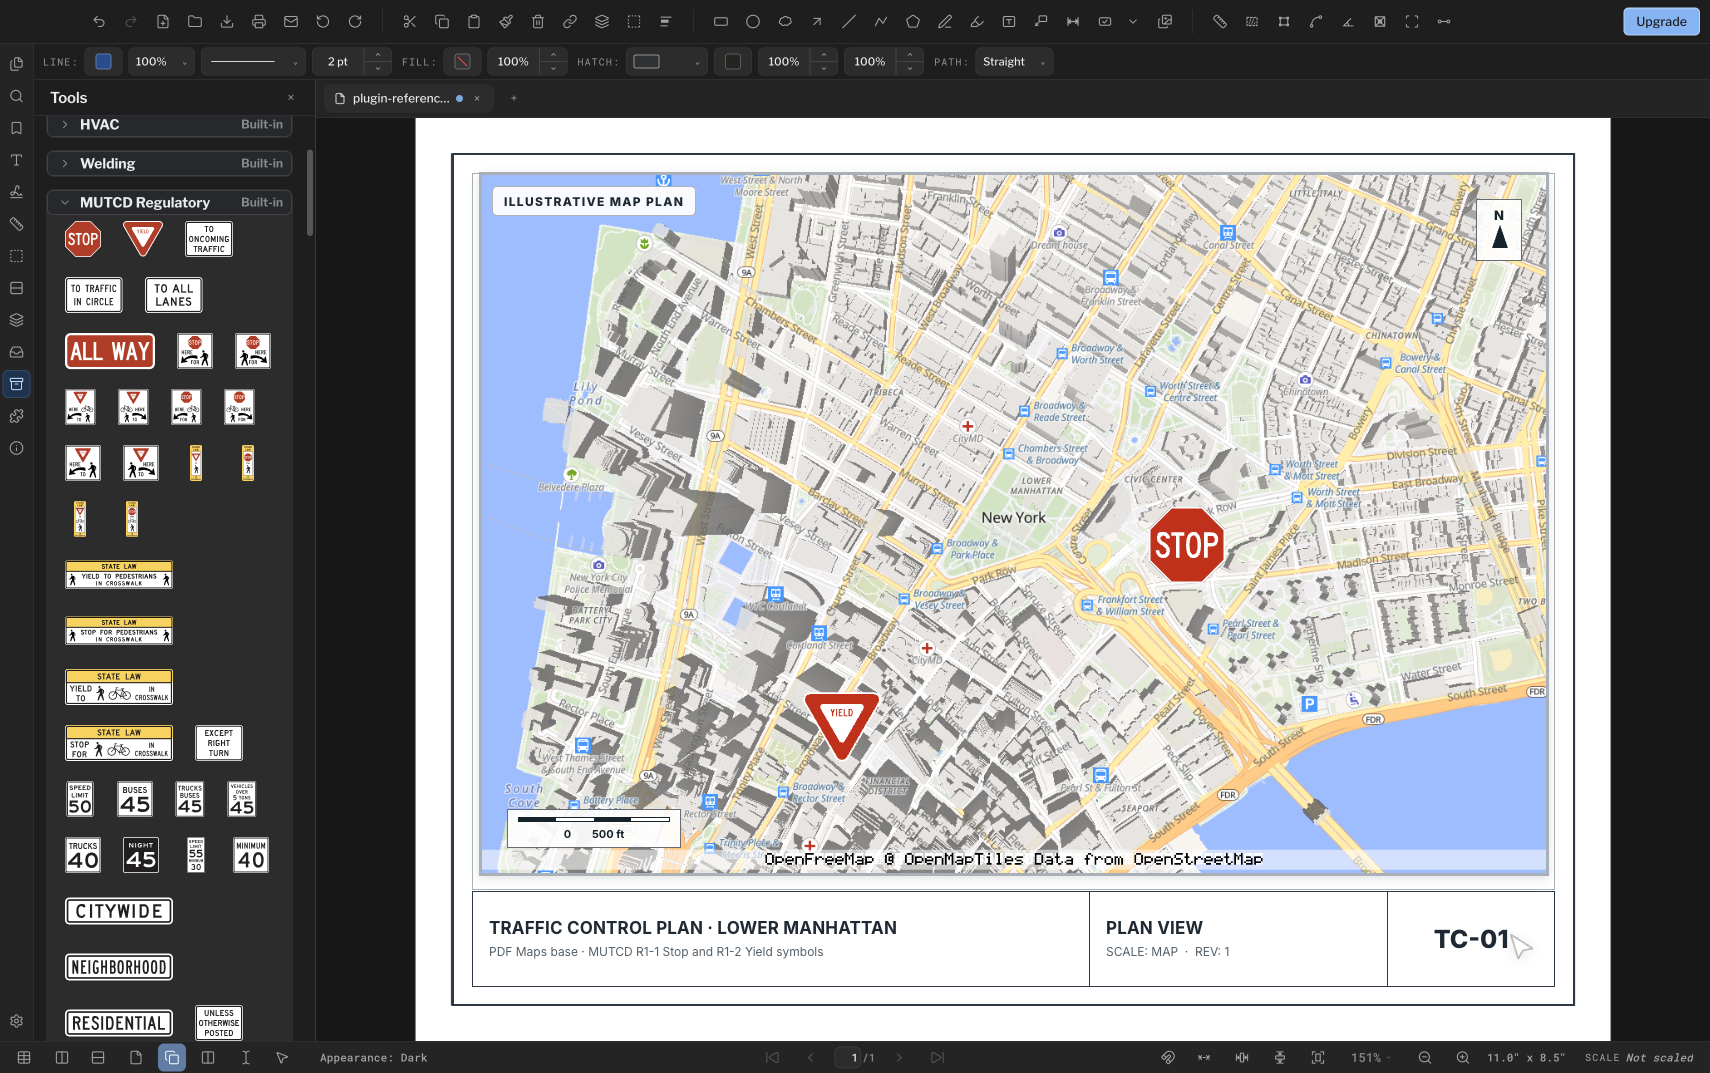
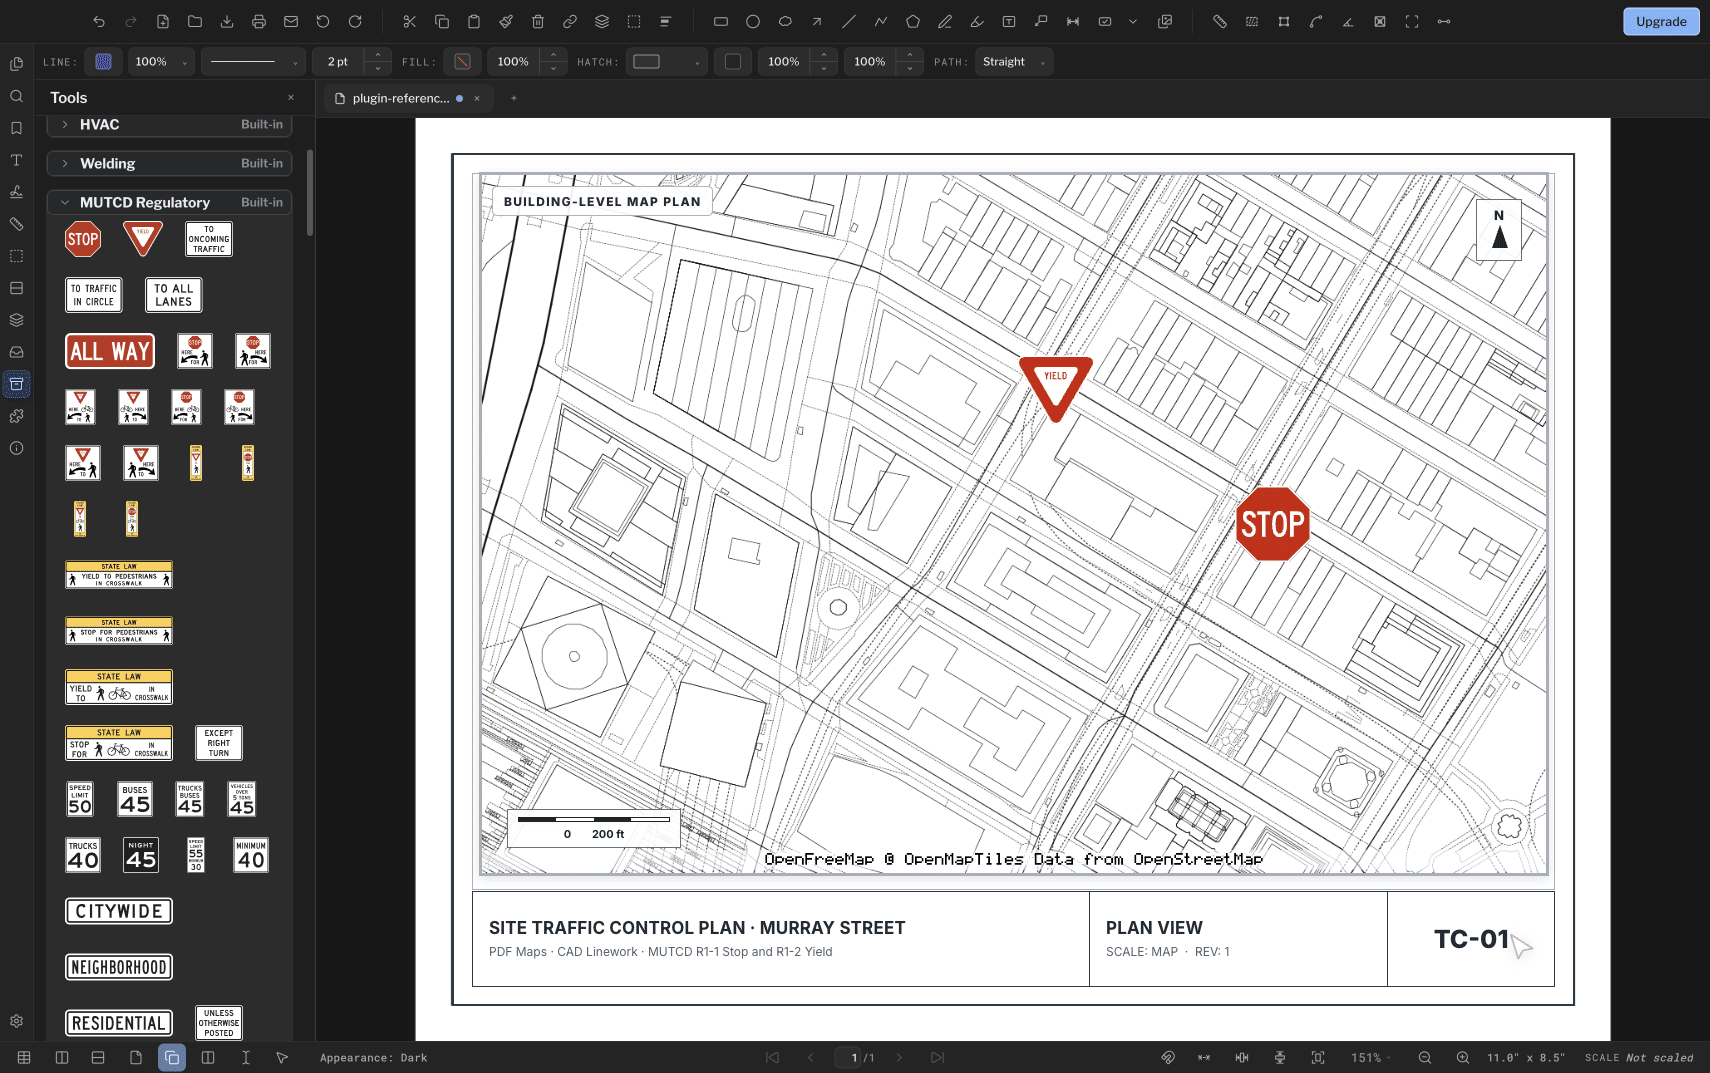
feat: show building map linework transition

diff --git a/videos/polypdf-map-workflow/index.html b/videos/polypdf-map-workflow/index.html
@@ -104,10 +104,30 @@
       }
 
       .map-image {
+        position: absolute;
+        inset: 0;
         display: block;
         width: 100%;
         height: 100%;
         object-fit: cover;
+      }
+
+      .map-image-linework {
+        clip-path: inset(0 100% 0 0);
+        will-change: clip-path;
+      }
+
+      .style-wipe-edge {
+        position: absolute;
+        top: 0;
+        bottom: 0;
+        left: -2px;
+        z-index: 3;
+        width: 3px;
+        opacity: 0;
+        background: #6f9ff5;
+        box-shadow: 0 0 0 1px rgba(255, 255, 255, 0.8), 0 0 16px rgba(111, 159, 245, 0.72);
+        will-change: transform, opacity;
       }
 
       .north-arrow {
@@ -246,15 +266,15 @@
       }
 
       #stop-sign {
-        left: 670px;
-        top: 335px;
+        left: 756px;
+        top: 314px;
         width: 76px;
         height: 76px;
       }
 
       #yield-sign {
-        left: 324px;
-        top: 520px;
+        left: 538px;
+        top: 183px;
         width: 78px;
         height: 70px;
       }
@@ -327,19 +347,21 @@
     </style>
   </head>
   <body>
-    <div data-hf-id="hf-iob9" id="map-workflow-stage" data-composition-id="polypdf-map-workflow" data-start="0" data-duration="8.6" data-fps="30" data-width="1710" data-height="1073" aria-label="PolyPDF inserts and resizes a full map plan, then adds MUTCD traffic signs">
-      <div data-hf-id="hf-qlwb" id="map-workflow-clip" class="clip" data-start="0" data-duration="8.6" data-track-index="0">
+    <div data-hf-id="hf-iob9" id="map-workflow-stage" data-composition-id="polypdf-map-workflow" data-start="0" data-duration="9.2" data-fps="30" data-width="1710" data-height="1073" aria-label="PolyPDF inserts a building-level map, converts it to CAD linework, then adds MUTCD traffic signs">
+      <div data-hf-id="hf-qlwb" id="map-workflow-clip" class="clip" data-start="0" data-duration="9.2" data-track-index="0">
         <img data-hf-id="hf-xzny" class="base-frame" src="assets/polypdf-pdf-maps-ui.png" width="1710" height="1073" alt="" aria-hidden="true" draggable="false">
 
         <div data-hf-id="hf-l250" class="motion-layer" data-layout-allow-overlap="">
           <section data-hf-id="hf-uhvq" class="plan-sheet" aria-label="Traffic control map plan document">
-            <div data-hf-id="hf-hmlo" class="sheet-kicker">Illustrative map plan</div>
+            <div data-hf-id="hf-hmlo" class="sheet-kicker">Building-level map plan</div>
 
             <div data-hf-id="hf-9loi" id="map-frame" class="map-frame">
               <div data-hf-id="hf-0xsl" class="map-viewport">
-                <img data-hf-id="hf-ihyl" class="map-image" src="assets/new-york-map-full.png" width="1280" height="840" alt="">
+                <img data-hf-id="hf-ihyl" class="map-image" src="assets/building-map-liberty.png" width="1280" height="840" alt="Building-level Liberty map around Murray Street and Church Street">
+                <img data-hf-id="hf-linework" id="linework-map" class="map-image map-image-linework" src="assets/building-map-linework.png" width="1280" height="840" alt="The same building-level map rendered as CAD linework">
+                <span data-hf-id="hf-wipe-edge" id="style-wipe-edge" class="style-wipe-edge" aria-hidden="true"></span>
                 <div data-hf-id="hf-e7xd" class="north-arrow">N</div>
-                <div data-hf-id="hf-asnu" class="map-scale">0&#160;&#160;&#160;&#160;&#160;&#160;&#160;&#160;500 ft</div>
+                <div data-hf-id="hf-asnu" class="map-scale">0&#160;&#160;&#160;&#160;&#160;&#160;&#160;&#160;200 ft</div>
               </div>
               <i data-hf-id="hf-yen0" class="resize-handle handle-tl"></i>
               <i data-hf-id="hf-5fm2" class="resize-handle handle-tr"></i>
@@ -362,8 +384,8 @@
 
             <footer data-hf-id="hf-2fl0" class="title-block">
               <div data-hf-id="hf-yeow">
-                <strong data-hf-id="hf-xhcd">TRAFFIC CONTROL PLAN · LOWER MANHATTAN</strong>
-                <span data-hf-id="hf-hv3x">PDF Maps base · MUTCD R1-1 Stop and R1-2 Yield symbols</span>
+                <strong data-hf-id="hf-xhcd">SITE TRAFFIC CONTROL PLAN · MURRAY STREET</strong>
+                <span data-hf-id="hf-hv3x">PDF Maps · CAD Linework · MUTCD R1-1 Stop and R1-2 Yield</span>
               </div>
               <div data-hf-id="hf-y7yw">
                 <strong data-hf-id="hf-cu12">PLAN VIEW</strong>
@@ -392,9 +414,10 @@
         var tl = gsap.timeline({ paused: true });
         gsap.set("#workflow-cursor", { x: 212, y: 904, opacity: 0, transformOrigin: "8px 8px" });
         gsap.set("#map-frame", { x: 176, y: 122, scale: 0.58, opacity: 0, transformOrigin: "0 0" });
-        gsap.set("#stop-sign", { x: -1082, y: -284, scale: 0.54, opacity: 0 });
-        gsap.set("#yield-sign", { x: -673, y: -468, scale: 0.5, opacity: 0 });
+        gsap.set("#stop-sign", { x: -1168, y: -263, scale: 0.54, opacity: 0 });
+        gsap.set("#yield-sign", { x: -887, y: -116, scale: 0.5, opacity: 0 });
         gsap.set(".sign-selection", { opacity: 0 });
+        gsap.set("#style-wipe-edge", { x: 0, opacity: 0 });
 
         tl.to("#workflow-cursor", { opacity: 1, duration: 0.12, ease: "none" }, 0.25);
         tl.to("#workflow-cursor", { x: 266, y: 1015, duration: 0.5, ease: "power2.inOut" }, 0.3);
@@ -403,40 +426,48 @@
         tl.fromTo(".cursor-ripple", { opacity: 0.85, scale: 0.25 }, { opacity: 0, scale: 2.1, duration: 0.34, ease: "power2.out", immediateRender: false }, 0.82);
 
         tl.fromTo("#map-frame", { x: 176, y: 122, scale: 0.54, opacity: 0 }, { x: 176, y: 122, scale: 0.58, opacity: 1, duration: 0.32, ease: "back.out(1.7)", immediateRender: false }, 1.08);
-        tl.to("#workflow-cursor", { x: 1272, y: 700, duration: 0.62, ease: "power2.inOut" }, 1.16);
-        tl.to("#workflow-cursor", { scale: 0.88, duration: 0.08, ease: "none" }, 1.7);
-        tl.to("#workflow-cursor", { x: 1547, y: 873, scale: 0.88, duration: 1.48, ease: "power2.inOut" }, 1.78);
-        tl.to("#map-frame", { x: 0, y: 0, scale: 1, duration: 1.48, ease: "power2.inOut" }, 1.78);
-        tl.to("#workflow-cursor", { scale: 1, duration: 0.16, ease: "back.out(2)" }, 3.26);
-        tl.fromTo(".cursor-ripple", { opacity: 0.8, scale: 0.25 }, { opacity: 0, scale: 2.1, duration: 0.34, ease: "power2.out", immediateRender: false }, 3.23);
-        tl.to(".resize-handle", { opacity: 0, duration: 0.24, ease: "power2.out" }, 3.38);
-        tl.to(".map-viewport", { borderColor: "rgba(44,57,68,0.34)", boxShadow: "0 3px 10px rgba(21,28,34,0.12)", duration: 0.24, ease: "power2.out" }, 3.38);
+        tl.to("#workflow-cursor", { x: 1272, y: 700, duration: 0.56, ease: "power2.inOut" }, 1.16);
+        tl.to("#workflow-cursor", { scale: 0.88, duration: 0.08, ease: "none" }, 1.66);
+        tl.to("#workflow-cursor", { x: 1547, y: 873, scale: 0.88, duration: 1.22, ease: "power2.inOut" }, 1.74);
+        tl.to("#map-frame", { x: 0, y: 0, scale: 1, duration: 1.22, ease: "power2.inOut" }, 1.74);
+        tl.to("#workflow-cursor", { scale: 1, duration: 0.14, ease: "back.out(2)" }, 2.96);
+        tl.fromTo(".cursor-ripple", { opacity: 0.8, scale: 0.25 }, { opacity: 0, scale: 2.1, duration: 0.32, ease: "power2.out", immediateRender: false }, 2.93);
+        tl.to(".resize-handle", { opacity: 0, duration: 0.2, ease: "power2.out" }, 3.08);
+        tl.to(".map-viewport", { borderColor: "rgba(44,57,68,0.34)", boxShadow: "0 3px 10px rgba(21,28,34,0.12)", duration: 0.2, ease: "power2.out" }, 3.08);
 
-        tl.to("#mutcd-panel", { opacity: 1, duration: 0.28, ease: "power2.inOut" }, 3.48);
-        tl.to("#workflow-cursor", { x: 82, y: 239, duration: 0.58, ease: "power2.inOut" }, 3.54);
-        tl.to("#workflow-cursor", { scale: 0.88, duration: 0.08, ease: "none" }, 4.12);
-        tl.set("#stop-sign", { opacity: 0.82 }, 4.16);
-        tl.to("#workflow-cursor", { x: 1147, y: 518, scale: 0.88, duration: 0.88, ease: "power2.inOut" }, 4.2);
-        tl.to("#stop-sign", { x: 0, y: 0, scale: 1, opacity: 1, duration: 0.88, ease: "power2.inOut" }, 4.2);
-        tl.to("#workflow-cursor", { scale: 1, duration: 0.14, ease: "back.out(2)" }, 5.08);
-        tl.fromTo("#stop-sign .sign-selection", { opacity: 0 }, { opacity: 1, duration: 0.12, ease: "none", immediateRender: false }, 5.08);
-        tl.fromTo(".cursor-ripple", { opacity: 0.8, scale: 0.25 }, { opacity: 0, scale: 2.1, duration: 0.34, ease: "power2.out", immediateRender: false }, 5.04);
+        tl.to("#workflow-cursor", { x: 164, y: 835, duration: 0.52, ease: "power2.inOut" }, 3.1);
+        tl.to("#workflow-cursor", { scale: 0.88, duration: 0.08, ease: "none" }, 3.62);
+        tl.to("#workflow-cursor", { scale: 1, duration: 0.12, ease: "back.out(2)" }, 3.7);
+        tl.fromTo(".cursor-ripple", { opacity: 0.82, scale: 0.25 }, { opacity: 0, scale: 2.1, duration: 0.34, ease: "power2.out", immediateRender: false }, 3.66);
+        tl.fromTo("#linework-map", { clipPath: "inset(0 100% 0 0)" }, { clipPath: "inset(0 0% 0 0)", duration: 0.72, ease: "power2.inOut", immediateRender: false }, 3.78);
+        tl.fromTo("#style-wipe-edge", { x: 0, opacity: 0 }, { x: 1068, opacity: 1, duration: 0.72, ease: "power2.inOut", immediateRender: false }, 3.78);
+        tl.to("#style-wipe-edge", { opacity: 0, duration: 0.12, ease: "none" }, 4.5);
 
-        tl.to("#workflow-cursor", { x: 144, y: 239, duration: 0.46, ease: "power2.inOut" }, 5.26);
-        tl.to("#workflow-cursor", { scale: 0.88, duration: 0.08, ease: "none" }, 5.7);
-        tl.set("#yield-sign", { opacity: 0.82 }, 5.74);
-        tl.to("#workflow-cursor", { x: 802, y: 707, scale: 0.88, duration: 0.81, ease: "power2.inOut" }, 5.78);
-        tl.to("#yield-sign", { x: 0, y: 0, scale: 1, opacity: 1, duration: 0.81, ease: "power2.inOut" }, 5.78);
-        tl.to("#workflow-cursor", { scale: 1, duration: 0.14, ease: "back.out(2)" }, 6.6);
-        tl.to("#stop-sign .sign-selection", { opacity: 0, duration: 0.16, ease: "none" }, 6.52);
-        tl.fromTo("#yield-sign .sign-selection", { opacity: 0 }, { opacity: 1, duration: 0.12, ease: "none", immediateRender: false }, 6.6);
-        tl.fromTo(".cursor-ripple", { opacity: 0.8, scale: 0.25 }, { opacity: 0, scale: 2.1, duration: 0.34, ease: "power2.out", immediateRender: false }, 6.56);
-        tl.to("#yield-sign .sign-selection", { opacity: 0, duration: 0.18, ease: "none" }, 6.88);
-        tl.to("#workflow-cursor", { x: 1510, y: 930, opacity: 0.28, duration: 0.46, ease: "power2.out" }, 6.78);
+        tl.to("#mutcd-panel", { opacity: 1, duration: 0.24, ease: "power2.inOut" }, 4.58);
+        tl.to("#workflow-cursor", { x: 82, y: 239, duration: 0.48, ease: "power2.inOut" }, 4.66);
+        tl.to("#workflow-cursor", { scale: 0.88, duration: 0.08, ease: "none" }, 5.12);
+        tl.set("#stop-sign", { opacity: 0.82 }, 5.16);
+        tl.to("#workflow-cursor", { x: 1246, y: 522, scale: 0.88, duration: 0.8, ease: "power2.inOut" }, 5.2);
+        tl.to("#stop-sign", { x: 0, y: 0, scale: 1, opacity: 1, duration: 0.8, ease: "power2.inOut" }, 5.2);
+        tl.to("#workflow-cursor", { scale: 1, duration: 0.13, ease: "back.out(2)" }, 6.0);
+        tl.fromTo("#stop-sign .sign-selection", { opacity: 0 }, { opacity: 1, duration: 0.12, ease: "none", immediateRender: false }, 6.0);
+        tl.fromTo(".cursor-ripple", { opacity: 0.8, scale: 0.25 }, { opacity: 0, scale: 2.1, duration: 0.32, ease: "power2.out", immediateRender: false }, 5.96);
 
-        tl.to({}, { duration: 0.95 }, 7.24);
-        tl.to(["#map-frame", "#mutcd-panel", "#stop-sign", "#yield-sign", "#workflow-cursor"], { opacity: 0, duration: 0.28, ease: "power2.in" }, 8.15);
-        tl.to({}, { duration: 0.17 }, 8.43);
+        tl.to("#workflow-cursor", { x: 144, y: 239, duration: 0.4, ease: "power2.inOut" }, 6.18);
+        tl.to("#workflow-cursor", { scale: 0.88, duration: 0.08, ease: "none" }, 6.56);
+        tl.set("#yield-sign", { opacity: 0.82 }, 6.6);
+        tl.to("#workflow-cursor", { x: 1054, y: 388, scale: 0.88, duration: 0.76, ease: "power2.inOut" }, 6.64);
+        tl.to("#yield-sign", { x: 0, y: 0, scale: 1, opacity: 1, duration: 0.76, ease: "power2.inOut" }, 6.64);
+        tl.to("#workflow-cursor", { scale: 1, duration: 0.13, ease: "back.out(2)" }, 7.4);
+        tl.to("#stop-sign .sign-selection", { opacity: 0, duration: 0.14, ease: "none" }, 7.32);
+        tl.fromTo("#yield-sign .sign-selection", { opacity: 0 }, { opacity: 1, duration: 0.12, ease: "none", immediateRender: false }, 7.4);
+        tl.fromTo(".cursor-ripple", { opacity: 0.8, scale: 0.25 }, { opacity: 0, scale: 2.1, duration: 0.32, ease: "power2.out", immediateRender: false }, 7.36);
+        tl.to("#yield-sign .sign-selection", { opacity: 0, duration: 0.18, ease: "none" }, 7.68);
+        tl.to("#workflow-cursor", { x: 1510, y: 930, opacity: 0.28, duration: 0.42, ease: "power2.out" }, 7.58);
+
+        tl.to({}, { duration: 0.84 }, 7.98);
+        tl.to(["#map-frame", "#mutcd-panel", "#stop-sign", "#yield-sign", "#workflow-cursor"], { opacity: 0, duration: 0.24, ease: "power2.in" }, 8.82);
+        tl.to({}, { duration: 0.14 }, 9.06);
 
         window.__timelines = window.__timelines || {};
         window.__timelines["polypdf-map-workflow"] = tl;

diff --git a/src/components/Home.js b/src/components/Home.js
@@ -108,9 +108,9 @@ export const homeScreenshots = [
     focus: 'pdf-maps',
     category: 'Maps',
     access: 'Pro',
-    title: 'Build a signed map sheet in one workflow',
-    alt: 'PolyPDF 1.4 placing a full New York map, resizing it on the PDF, then adding built-in MUTCD Stop and Yield signs',
-    caption: 'Place a real map, drag it to the size the sheet needs, then layer built-in MUTCD regulatory signs directly over it.',
+    title: 'Turn a building-level map into plan-ready linework',
+    alt: 'PolyPDF placing a building-level Murray Street map, converting it from Liberty cartography to CAD Linework, then adding MUTCD Stop and Yield signs',
+    caption: 'Place a real building-scale map, resize it to the sheet, switch it to CAD Linework, then add built-in MUTCD signs at the intersections.',
     width: 1710,
     height: 1073
   },

diff --git a/src/components/HomeMotion.test.js b/src/components/HomeMotion.test.js
@@ -45,6 +45,9 @@ test('the map workflow uses a poster plus viewport-activated animation and homep
   expect(mapShot.image).toBeTruthy();
   expect(mapShot.animatedImage).toBeTruthy();
   expect(mapShot.framing).toBe('focus');
+  expect(mapShot.title).toMatch(/building-level map.*linework/i);
+  expect(mapShot.alt).toMatch(/Liberty cartography.*CAD Linework/i);
+  expect(mapShot.caption).toMatch(/building-scale map.*MUTCD signs.*intersections/i);
   expect(JSON.stringify(homeScreenshots).toLowerCase()).not.toContain('steel');
 });
 
